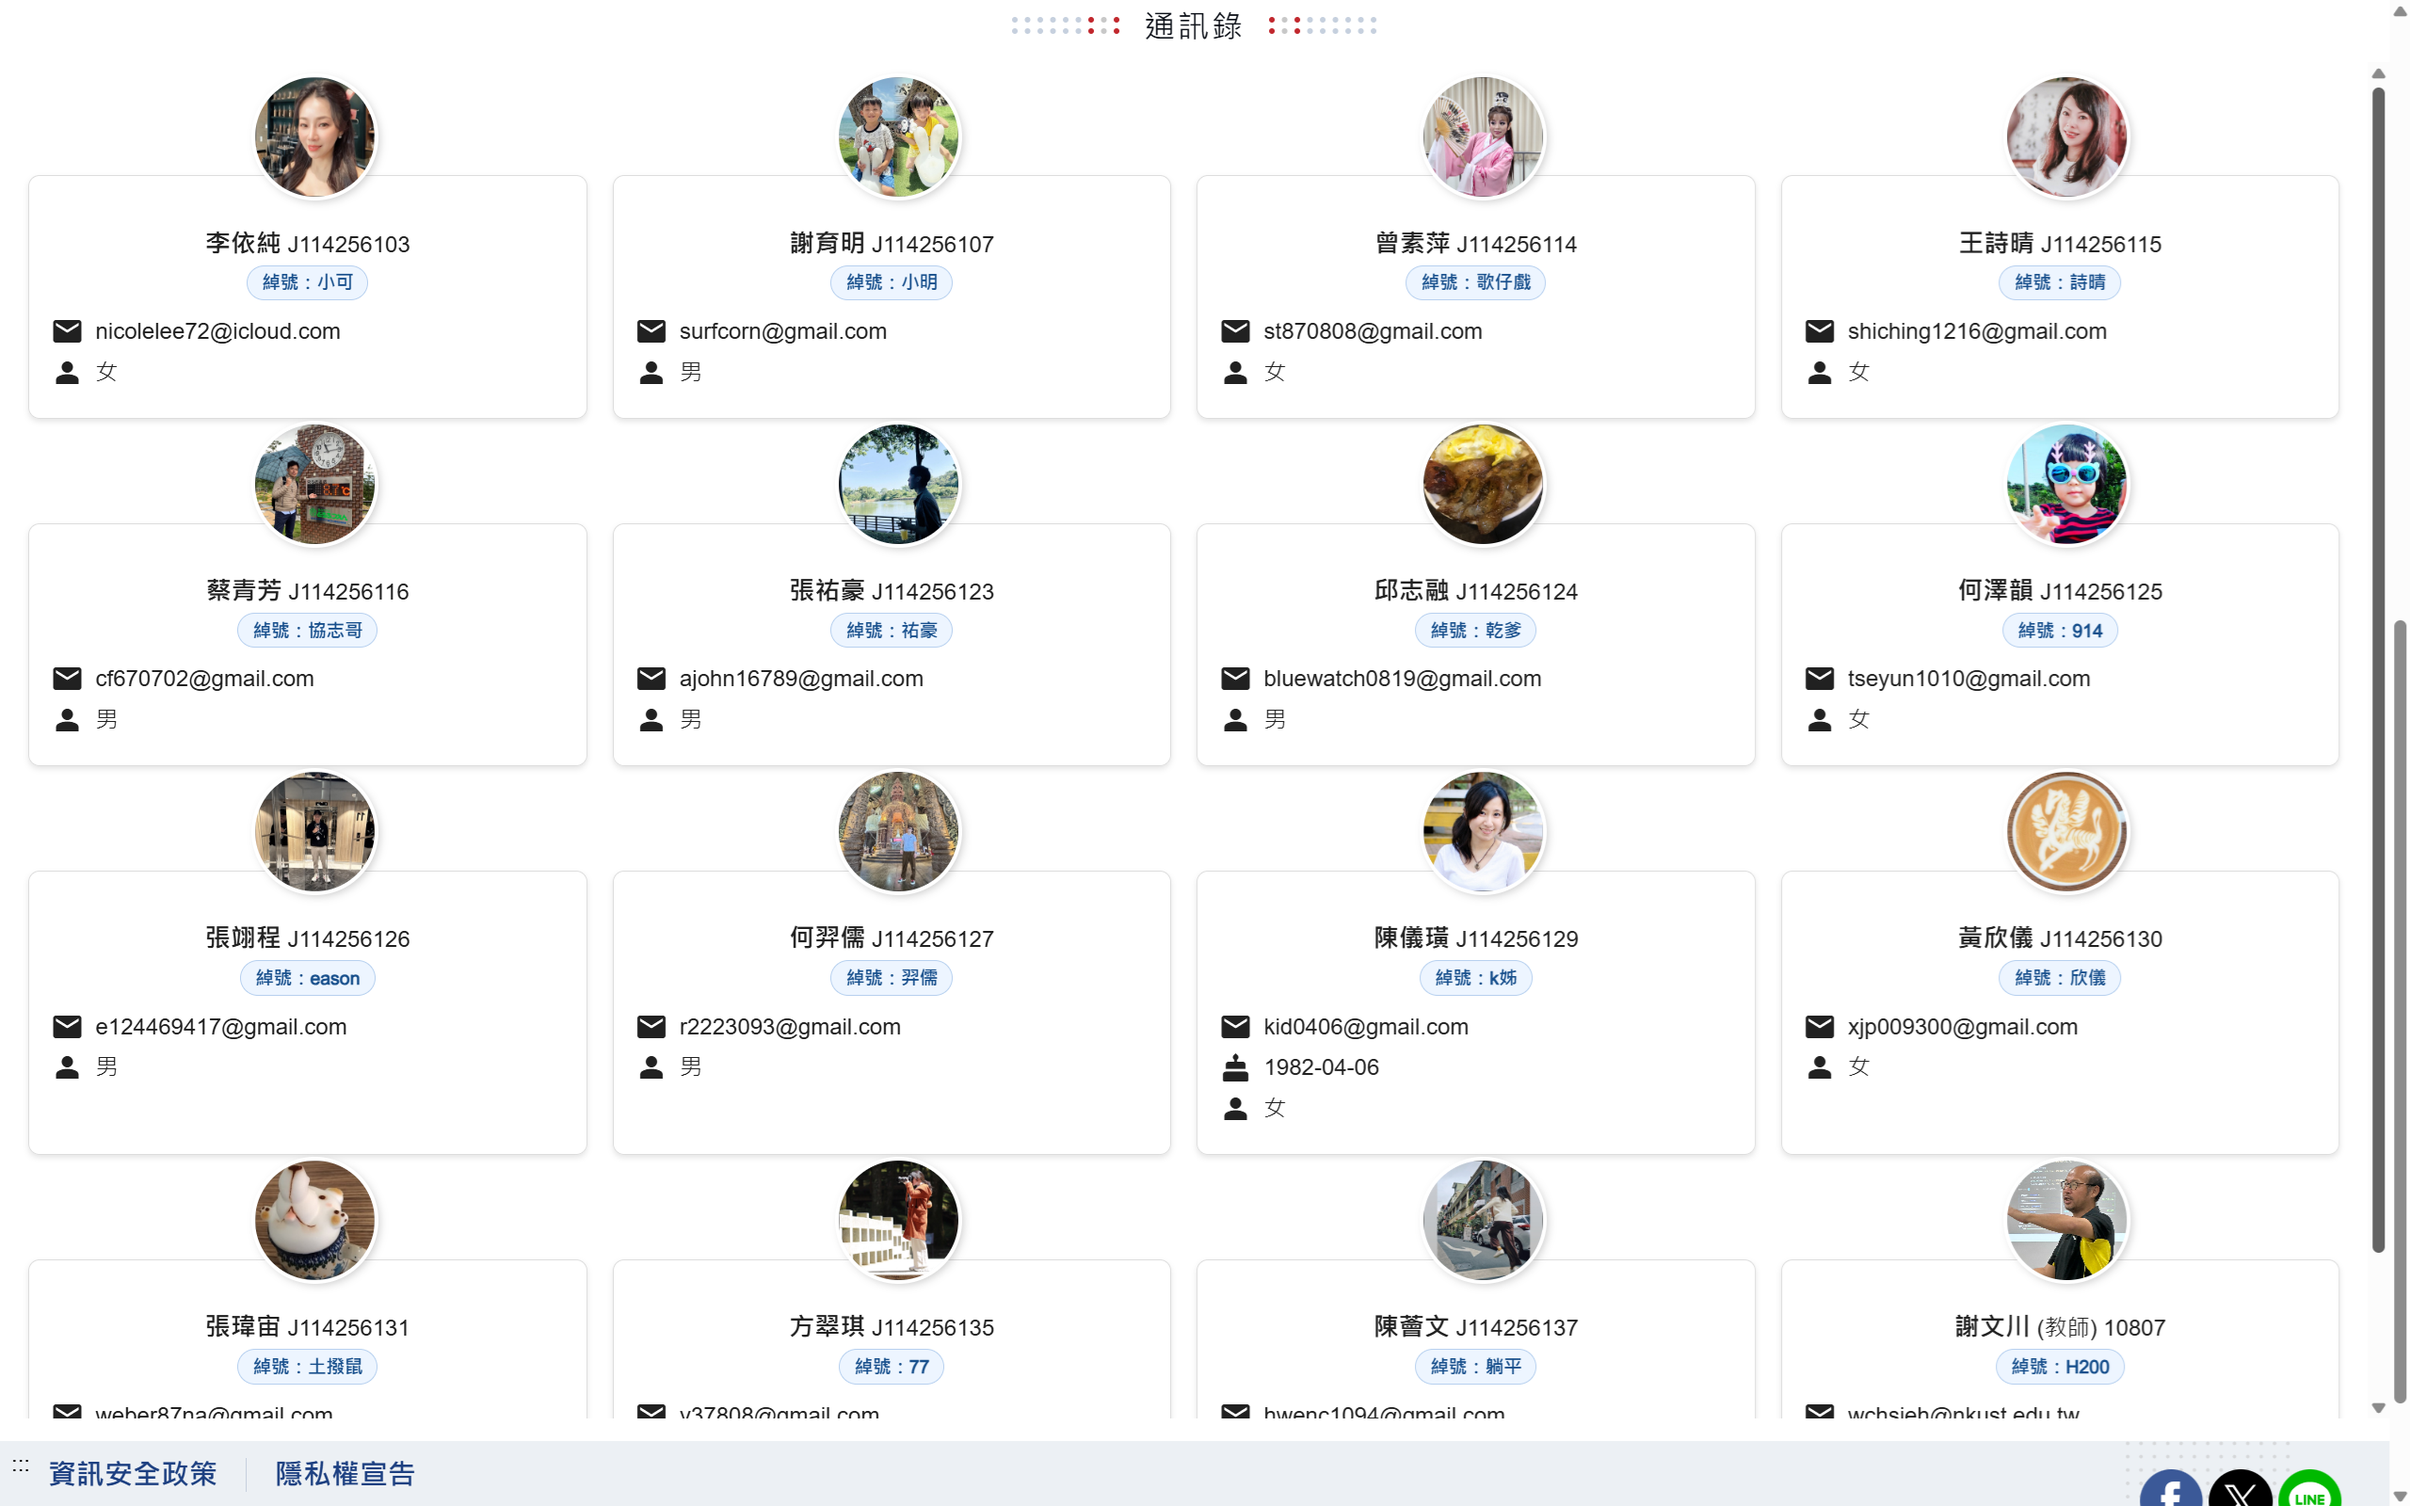
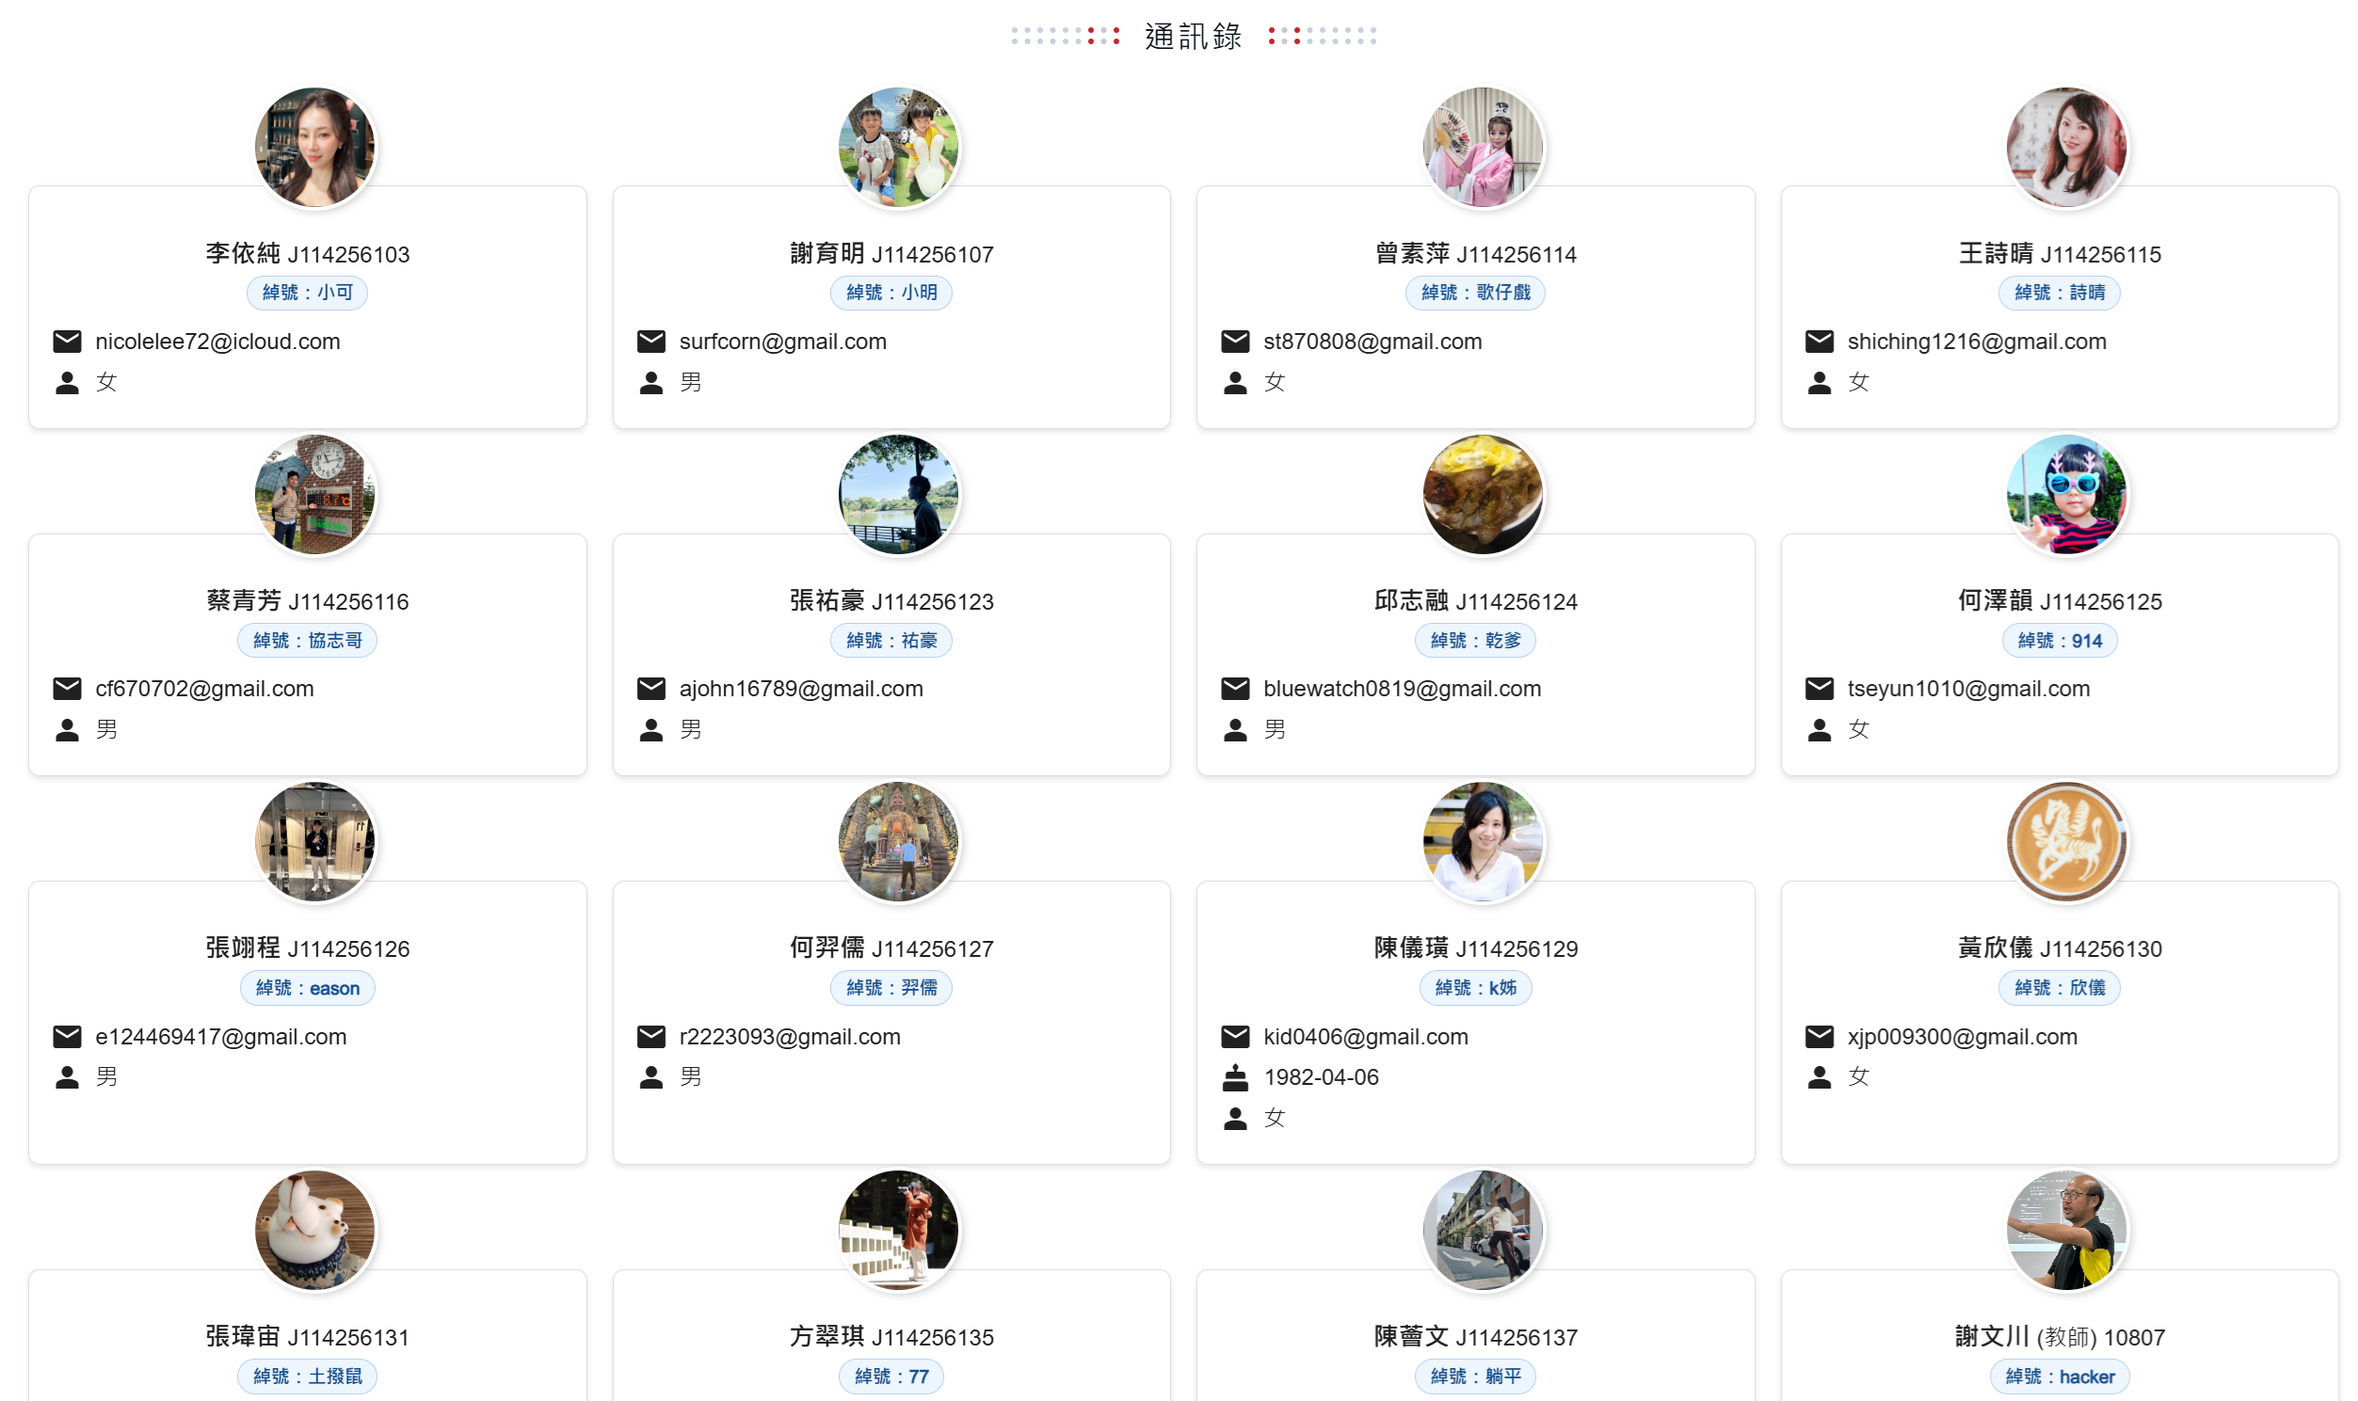
更新圖片

diff --git a/README.md b/README.md
@@ -5,16 +5,9 @@
 
 我是一個有十年經驗的工程師, 曾服務賣牛肉麵的公司, 電風工廠
 
-可以在我的 [blog](https://blog.lasai.com.tw/) 或 [YT](https://www.youtube.com/@ladisai) 找到我
+可以在我的 [codepen](https://codepen.io/weber87na) [blog](https://blog.lasai.com.tw/) 或 [YT](https://www.youtube.com/@ladisai) 找到我
 
 ![img](封面圖/辛普森鼠.jpg)
-
-
-## 狀態說明
-
-- ✅ 已完成
-- 🟡 進行中
-- ⬜ 尚未開始或待補充
 
 ## 課程地圖
 
